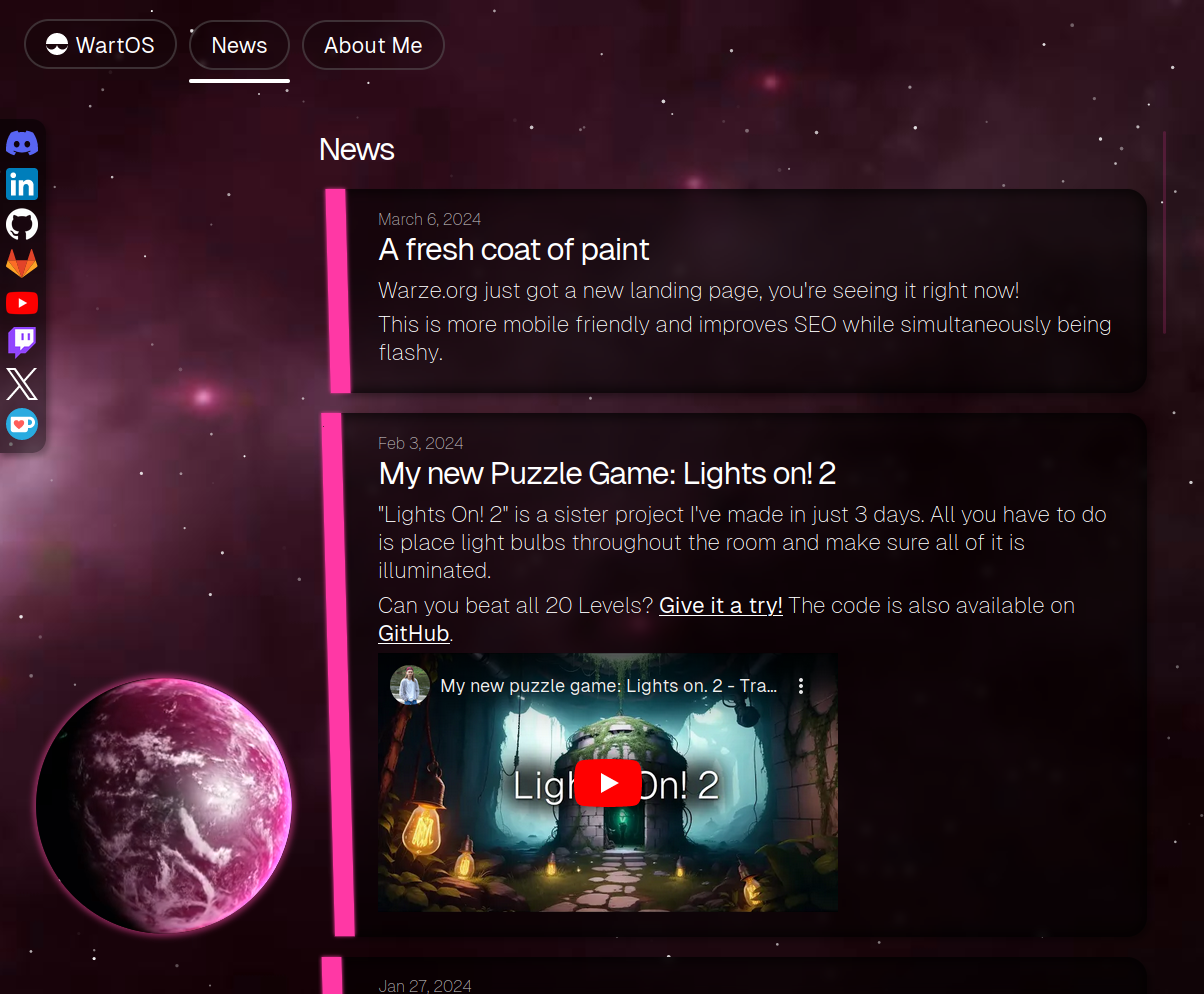
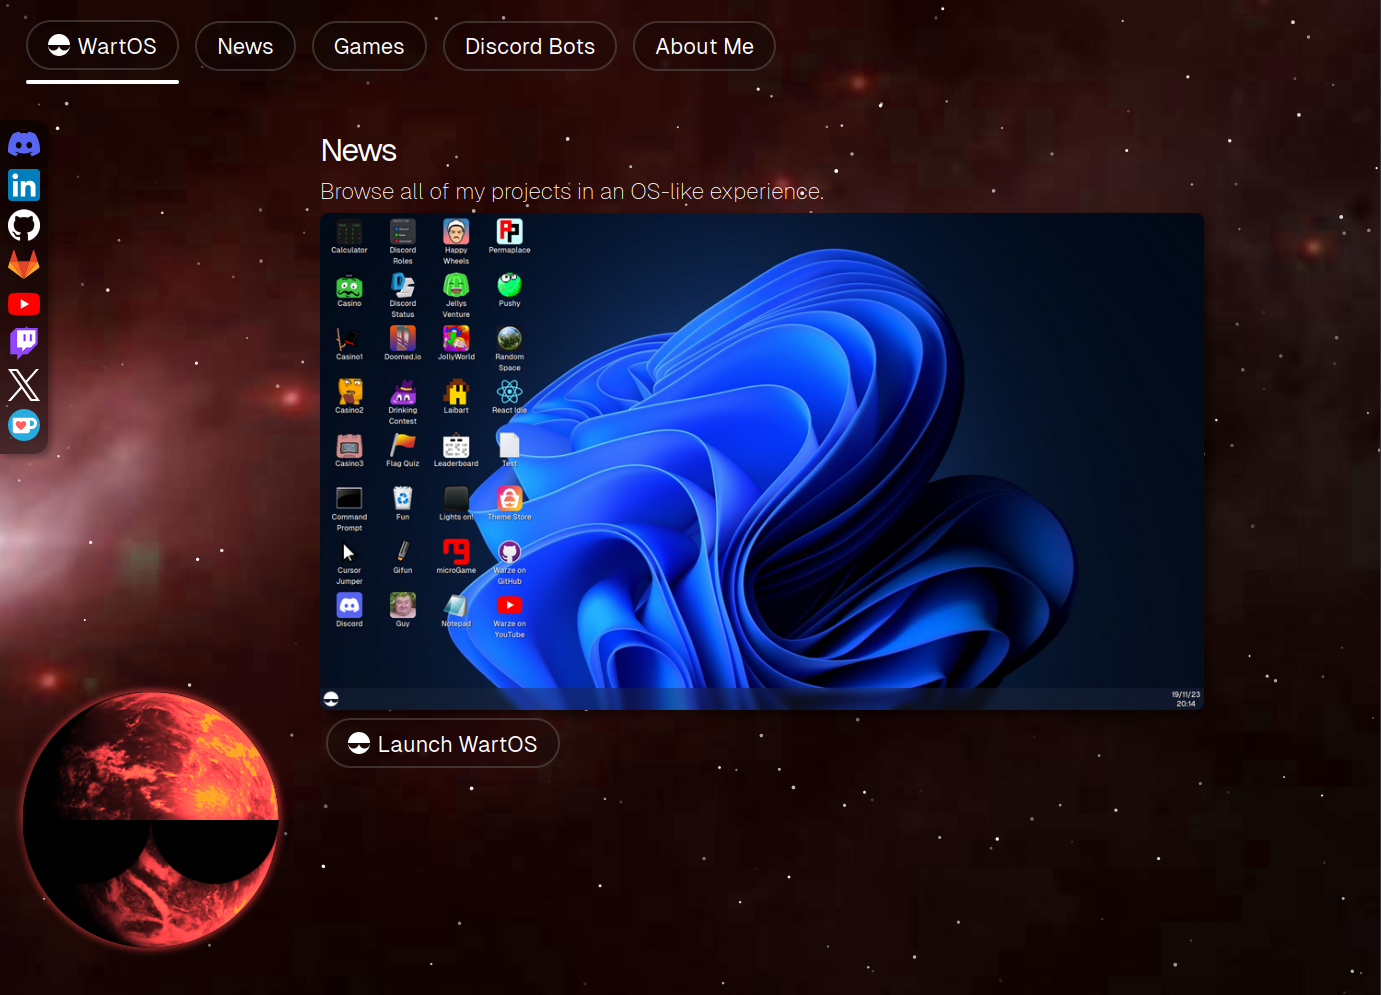
Changed default category to WartOS

diff --git a/index.html b/index.html
@@ -41,7 +41,7 @@
 		<!-- Navigation Bar -->
 		<div id="navBarDesktop">
 			<nav>
-				<button class="roundedButton category" data-category="wartos">
+				<button class="roundedButton category selectedCategory" data-category="wartos">
 					<svg width="22" height="22" viewBox="0 0 4 4" id="warzeOrgLogo">
 						<mask id="glasses">
 							<rect x="0" y="0" width="4" height="4" fill="white"></rect>
@@ -52,7 +52,7 @@
 					</svg>
 					WartOS
 				</button>
-				<button class="roundedButton category selectedCategory" data-category="news">
+				<button class="roundedButton category" data-category="news">
 					News
 				</button>
 				<button class="roundedButton category" data-category="games">
@@ -74,10 +74,10 @@
 				</svg>
 			</button>
 			<div id="navBarDrawer" class="tuckedAway">
-				<button class="category" data-category="wartos">
+				<button class="category selectedCategory" data-category="wartos">
 					WartOS
 				</button>
-				<button class="category selectedCategory" data-category="news">
+				<button class="category" data-category="news">
 					News
 				</button>
 				<button class="category" data-category="games">
@@ -98,7 +98,7 @@
 				<span id="titleText">News</span><div id="titleCursor"></div>
 			</h1>
 
-			<section id="news">
+			<section id="news" class="hidden" style="opacity: 0">
 				<div class="post">
 					<span class="timestamp">March 6, 2024</span>
 					
@@ -298,7 +298,7 @@
 				</div>
 			</section>
 
-			<section id="wartos" class="hidden" style="opacity: 0">
+			<section id="wartos">
 				<p>Browse all of my projects in an OS-like experience.</p>
 				<img src="https://wartos.warze.org/meta.png" meta="WartOS Screenshot" id="wartOSscr">
 				<a href="https://wartos.warze.org/" target="_blank">
@@ -369,8 +369,8 @@
 
 		<img src="/earth/bgblue.jpg" class="background" id="bgblue">
 		<img src="/earth/bgpurple.jpg" class="background" id="bgpurple">
-		<img src="/earth/bgpink.jpg" class="background currentBackground" id="bgpink">
-		<img src="/earth/bgred.jpg" class="background" id="bgred">
+		<img src="/earth/bgpink.jpg" class="background" id="bgpink">
+		<img src="/earth/bgred.jpg" class="background currentBackground" id="bgred">
 		<img src="/earth/bggreen.jpg" class="background" id="bggreen">
 
 		<script src='/js/categories.js'></script>

diff --git a/js/index.js b/js/index.js
@@ -4,7 +4,7 @@ const earthSunglasses = document.getElementById('earthSunglasses');
 
 const underline = document.getElementById('navUnderline');
 
-let currentCategory = 'news';
+let currentCategory = 'wartos';
 let lastCategorySelection = 0;
 
 function resize() {
@@ -98,7 +98,7 @@ document.querySelectorAll('.category').forEach((category) => {
 });
 
 // Initial category
-selectCategory('news');
+selectCategory(currentCategory);
 moveUnderlineToElement(document.getElementById('selectedCategory'));
 
 // Hide PC only games if on mobile
@@ -106,6 +106,7 @@ if ('ontouchstart' in window) {
 	document.querySelectorAll('.pcOnly').forEach((element) => {
 		element.remove();
 	});
+	earth.remove();
 }
 
 // Make thumbnails turn into youtube embeds on click
